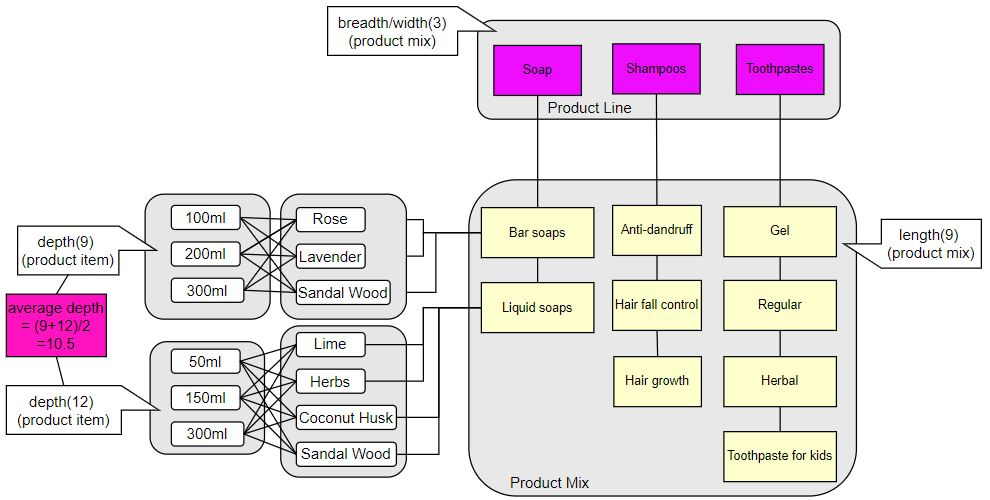
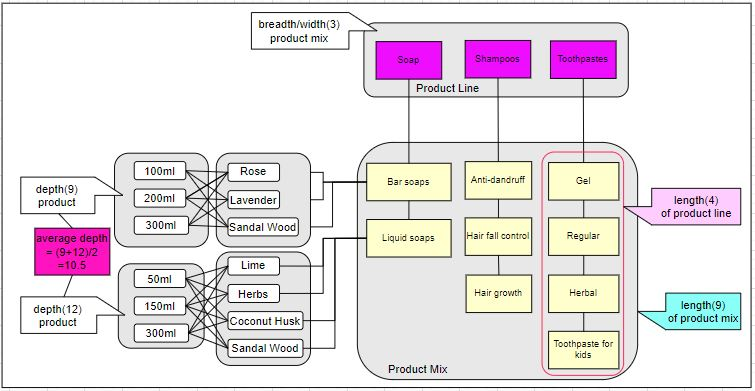
more

Changed region(s): [[0.0, 0.0, 1.0, 1.0]]

diff --git a/index.html b/index.html
@@ -134,26 +134,31 @@ A hypothetical company which has 3 product lines(cosmetics, apparels, shoes), ba
     4 unsought goods, people don't look forward to buy in this product. eg, fire extinguishers, fire alarms, any life insurance products
     <img src="images/consumer-products-classification.JPG" alt="" width="25%">
 - Product line is a group of products that are closely related (satisfy similar type of needs, sold to same customer group and marketed through similar channels). eg, soaps (bar soaps and liquid soaps)
-- The length of a product line refers to the total number of items that are there in a product line, length of soap product line is 2
-- A product mix is also called product assortment, which is the set of all products of different product lines and items a particular seller offers for sale.
+- A product line is one line/group of similar products that are sold within a company
+- A product mix is the combined total of all the product lines sold in a company is also called product assortment
+<img src="images/product-mix-properties.JPG" alt="" width="45%"> 
 - eg, 1 product mix and 3 different product lines - soaps (bar soaps and liquid soaps), shampoos (anti-dandruff, hair fall control and hair growth), toothpastes (gel, regular, herbal, and toothpaste for kids)
-- A product mix for any organization has got 4 properties: Length, Breadth, Depth and Consistency.
-    # length of a product mix refers to the total products. eg, length is 9 for the above example
-    # breadth or width of a product mix refers number of product lines. eg, breadth is 3 for the above example
-    # depth refers to the number of product variation. eg, depth is 2 for above example
+- The length of a product line refers to the total number of items that are there in a product line, length of soap product line is 2
+- A product line for any organization has got 4 properties
+    # length is total products in that line
+    # depth is total number of variants of each product offered in this line, variants include size, colour, flavours,
+- A product mix for any organization has got 4 properties
+    # length is total products in the product mix
+    # breadth or width(വീതി) is number of product lines in the product mix
+    # depth is total number of variants of each product offered in each line, variants include size, colour, flavours,
     # consistency of a product lines refers, if distribution of 2 product lines are on the same channel then consistent on the distribution channel and if same raw material then consistent on raw material 
-    <img src="images/product-mix-properties.JPG" alt="" width="45%"> 
 - Product Line Analysis steps
     # Understand each product lines market profile and performance.
         @ spreading the total product mix
         @ pull out the sales and profitability reports
         @ Analyze the reports
     # Review how the line is positioned against competitors lines
-- Decision making by product managers after the analysis
-    # Drop some items that are not doing well
-    # Put more resources to the items that are performing better
-    # Introduce new items if there are gaps in the market
-- Through this analysis and elaboration we will develop a product mix that satisfies the needs and wants of our target consumer
+- Marketing managers will take product mix decision after the analysis to expanding the business and to increase the profitability
+- Product mix decision refers to 
+    # adding a new or eliminating any existing product from the product mix
+    # adding a new product line
+    # lengthening an existing line
+    # bringing new variants of a brand
 - Brands is defined as a name, term, sign, symbol, design or combination of them, intended to identify the goods and services of one seller or group of sellers and differentiate them from competitors.
 - Brand related decisions include: brand sponsor decision, brand name decision and brand strategy decision.
     # brand sponsor(ownership) decision like manufacturer brand(Bajaj,Honda),distributor brand(Shopper Stop), and license brand(Levi,Parker)
